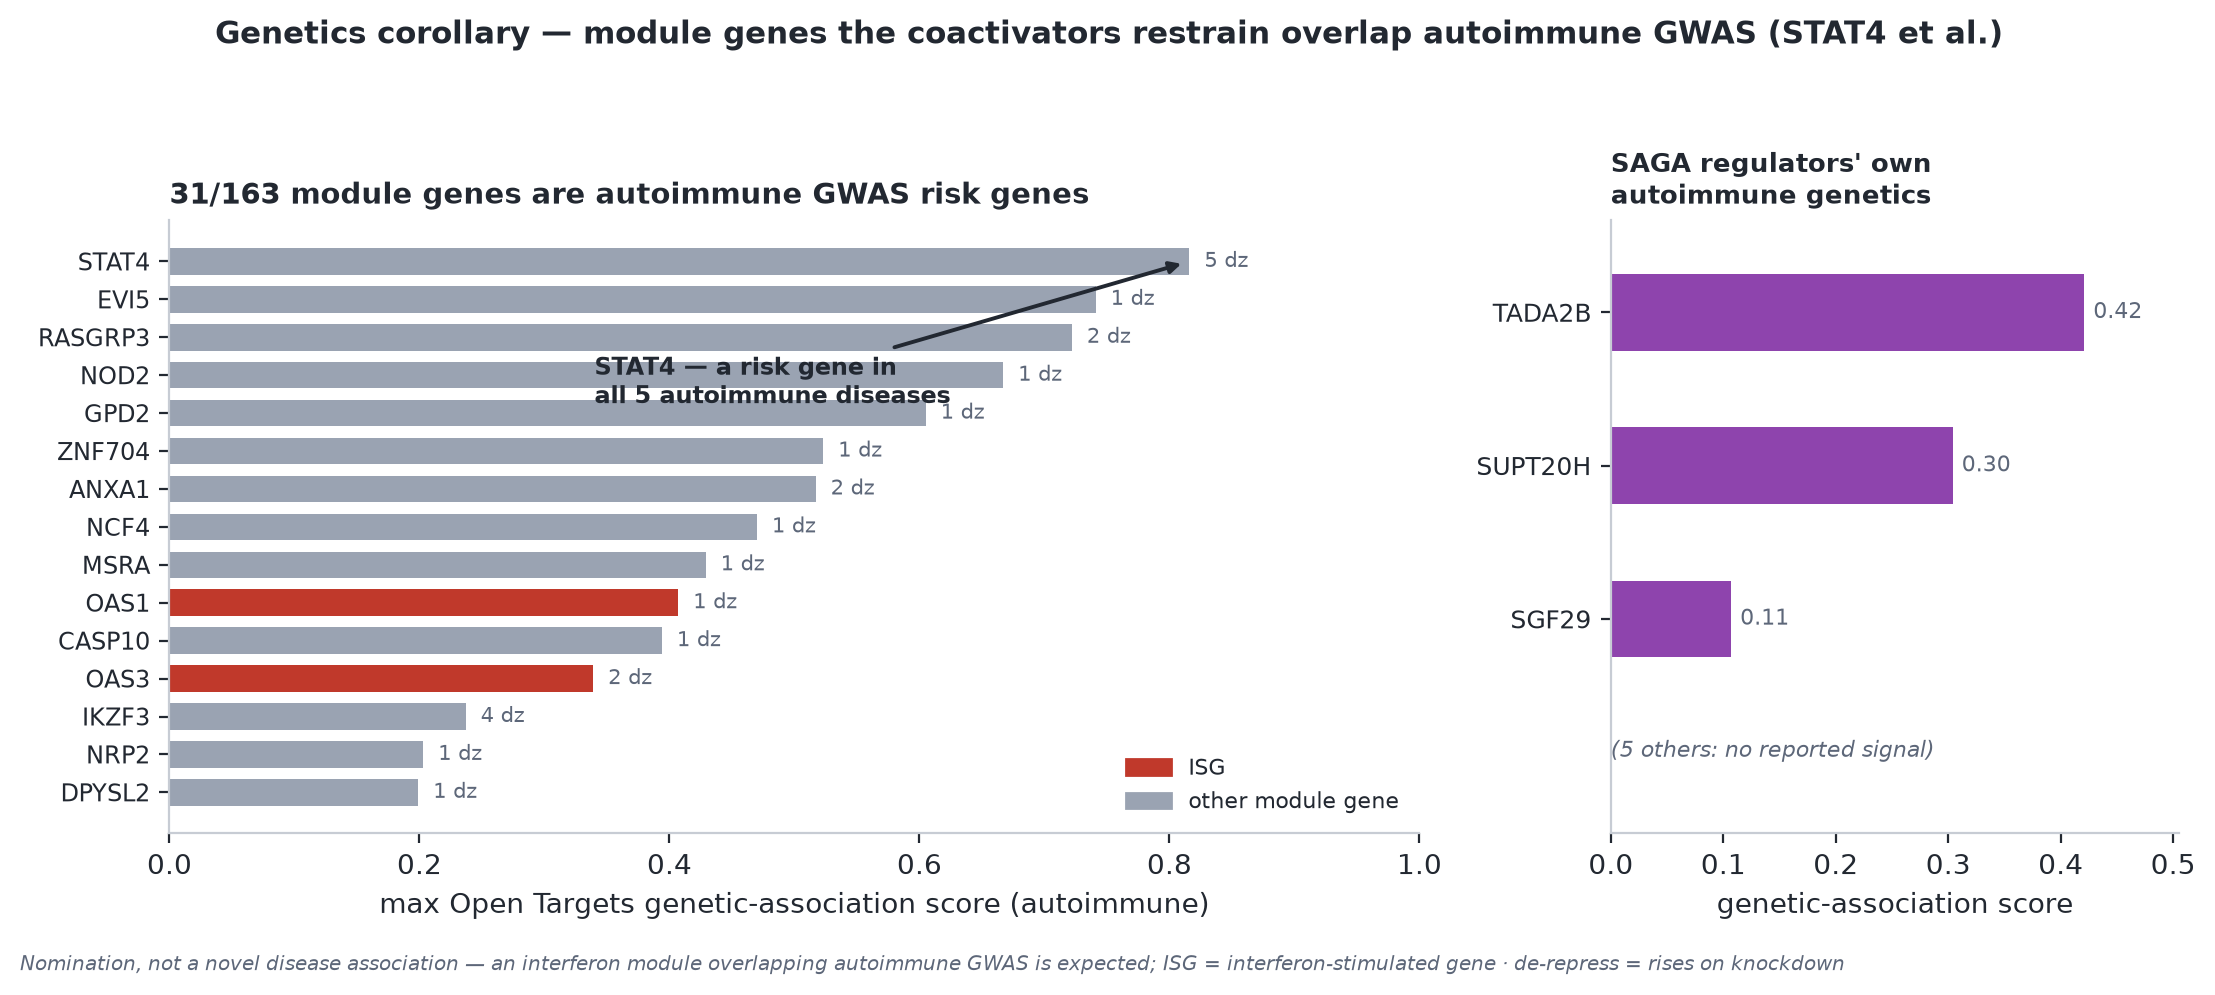
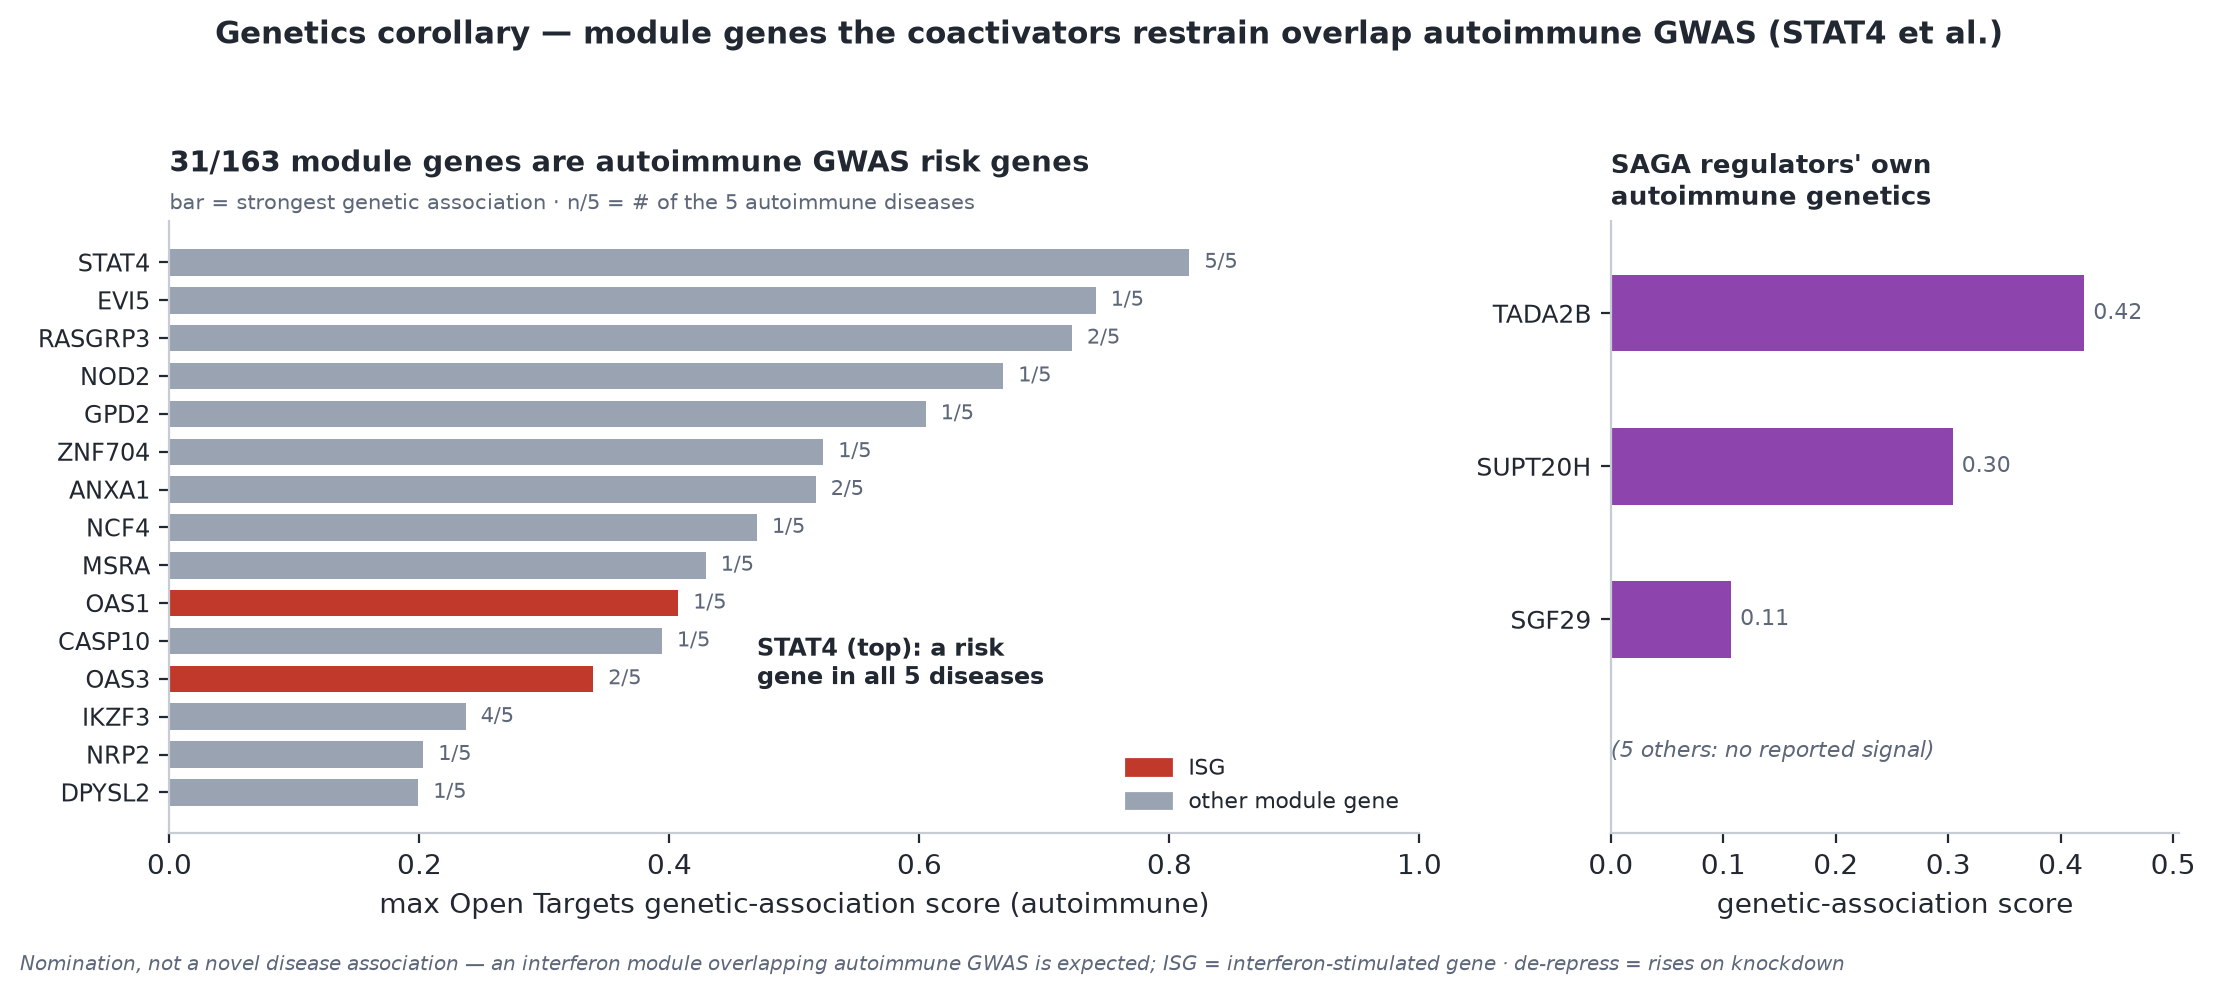
fix(figures): clear three annotation collisions in figs 29/30/31
Spotted in zoomed review:
- fig 29: "↑ de-repression" label overlapped the "+19 pp — the finding" bracket
  (the position fix had not been re-rendered) → moved to the clear top-right.
- fig 30: the specificity callout arrow struck through the "0/14 ns" label → replaced
  the arrow with plain text beside the (zero) exhaustion bar; label is legible.
- fig 31: the STAT4 arrow crossed bars and the text overlapped the per-gene labels →
  moved to the open pocket, no arrow; ambiguous "N dz" → "N/5" with a defining header note.

diff --git a/scripts/analyze_module_gwas.py b/scripts/analyze_module_gwas.py
@@ -152,15 +152,15 @@ def _figure(hits_df, saga_df):
     ax1.barh(y, top["max_genetic_score"], color=colors, height=0.7, zorder=2)
     ax1.set_yticks(y); ax1.set_yticklabels(top["gene"], fontsize=8.5)
     for yi, s, n in zip(y, top["max_genetic_score"], top["n_autoimmune_diseases"]):
-        ax1.text(s + 0.012, yi, f"{n} dz", va="center", fontsize=7.5, color=S.MUTED)
-    # STAT4 is the headline gene — annotate directly
+        ax1.text(s + 0.012, yi, f"{n}/5", va="center", fontsize=7.5, color=S.MUTED)
+    # STAT4 is the headline gene — annotate in the open pocket (short bottom bars, above the legend)
     if (top["gene"] == "STAT4").any():
-        si = int(np.where(top["gene"].values == "STAT4")[0][0])
-        S.callout(ax1, "STAT4 — a risk gene in\nall 5 autoimmune diseases",
-                  xy=(top["max_genetic_score"].iloc[si], si), xytext=(0.34, si - 3.2),
-                  color=S.INK, fs=8.5, ha="left")
+        ax1.text(0.47, 3.4, "STAT4 (top): a risk\ngene in all 5 diseases",
+                 color=S.INK, fontsize=8.5, fontweight="bold", ha="left", va="center")
     ax1.set_xlabel("max Open Targets genetic-association score (autoimmune)")
-    ax1.set_title(f"{len(hits_df)}/163 module genes are autoimmune GWAS risk genes", fontsize=10.5, loc="left")
+    ax1.set_title(f"{len(hits_df)}/163 module genes are autoimmune GWAS risk genes", fontsize=10.5, loc="left", pad=18)
+    ax1.text(0, 1.02, "bar = strongest genetic association · n/5 = # of the 5 autoimmune diseases",
+             transform=ax1.transAxes, fontsize=7.6, color=S.MUTED)
     ax1.legend(handles=[Patch(color=S.ISG, label="ISG"), Patch(color=S.GENERIC, label="other module gene")],
                fontsize=8, loc="lower right", frameon=False)
     ax1.set_xlim(0, 1.0)

diff --git a/scripts/analyze_disease_overlap.py b/scripts/analyze_disease_overlap.py
@@ -115,11 +115,11 @@ def _figure(df):
                                  d["hypergeom_p"], d["is_contrast"]):
         sig = "***" if p < 1e-10 else ("**" if p < 1e-4 else ("*" if p < 0.05 else "ns"))
         ax.text(f + xmax * 0.012, yi, f"  {k}/{K}  {sig}", va="center", fontsize=8.5, color=S.MUTED)
-    # annotate the contrast: this null is the point
+    # annotate the contrast: this null is the point (plain text in the empty row — no strike-through arrow)
     ci = int(d.index[d["is_contrast"]][0]) if d["is_contrast"].any() else None
     if ci is not None:
-        S.callout(ax, "specificity check ✓\nIFN-specific, not\ngenerically inflammatory",
-                  xy=(0.1, ci), xytext=(xmax * 0.42, ci), color=S.MUTED, fs=8, ha="left")
+        ax.text(xmax * 0.14, ci, "← specificity check ✓  —  IFN-specific,\nnot generically inflammatory",
+                color=S.MUTED, fontsize=8.5, ha="left", va="center", fontweight="bold")
     ax.axvline(1, color="#b7bcc4", ls="--", lw=1)
     ax.set_yticks(y); ax.set_yticklabels(d["signature"], fontsize=9)
     ax.set_xlabel("Fold-enrichment of the 163-gene convergent module in each signature\n"